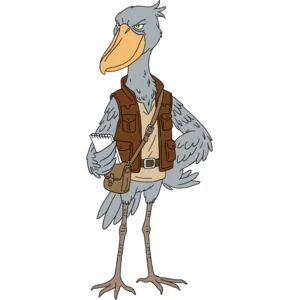
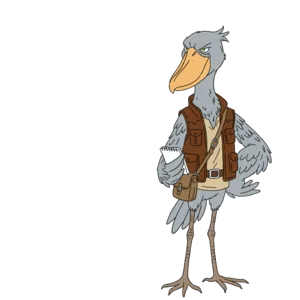
feat: [CLIAR-198] 황새 커서 호버 시 날개 펄럭임 애니메이션 적용
책 위에 커서를 올렸을 때 황새가 날개를 펄럭이도록 stork_2(날개 수평)·
stork_3(날개 위로)을 2프레임 애니메이션 WebP 1장으로 합쳐 적용한다.
에셋 장수는 기본 1장 + 호버 1장으로 고양이(cat_03/cat_04)와 동일하게 맞췄다.

- stork_hover.webp: 2프레임 애니메이션 WebP(무한 루프, 220ms/180ms, 26.9KB)
  - GIF 대신 애니메이션 WebP 채택 — GIF는 알파가 1비트라 캐릭터 외곽선이
    거칠어지는데 WebP는 알파 채널을 온전히 지원
  - dispose=Background로 프레임 간 잔상(고스팅) 없음을 coalesce로 검증
- 프레임 정렬: stork_1/2/3 바운딩박스의 합집합(768x944+609+157)을 공통 크롭
  기준으로 사용해 몸통·다리 위치를 고정하고 날개만 움직이게 처리
  (프레임별 개별 트림 시 몸통이 튀는 문제 방지)
- stork_1.webp도 동일 정렬 기준으로 재생성해 기본/호버 상태 간 크기·위치 일치
- 포인터 지점(부리 끝) 실측 갱신: tip (168,84)/300, tipHover (178,65)/300

검증: npm run build 통과, lint 이슈 없음, 프레임 렌더 검증 완료.

diff --git a/my-reading-room/src/data/librarians.js b/my-reading-room/src/data/librarians.js
@@ -49,10 +49,12 @@ export const LIBRARIANS = [
     specialtyCode: 'BUSINESS_ECONOMICS',
     // 황새 서재로 전환했을 때 기본으로 유지되는 커서 이미지 (CLIAR-198)
     image: '/cursors/stork/stork_1.webp',
-    imageHover: null,
-    // 포인터 지점은 부리 끝 — 이미지 알파 채널 실측값 (99, 67)/300
-    tip: { x: 0.33, y: 0.223 },
-    tipHover: null,
+    // 책 위에 올렸을 때: 날개를 펄럭이는 2프레임 애니메이션 WebP 1장
+    // (원본 stork_2·stork_3을 합쳐 에셋 장수는 고양이와 동일하게 2장 유지)
+    imageHover: '/cursors/stork/stork_hover.webp',
+    // 포인터 지점은 부리 끝 — 알파 채널 실측값 (168,84)/300, hover는 (178,65)/300
+    tip: { x: 0.56, y: 0.28 },
+    tipHover: { x: 0.593, y: 0.217 },
   },
 ].map((l) => ({
   ...l,
